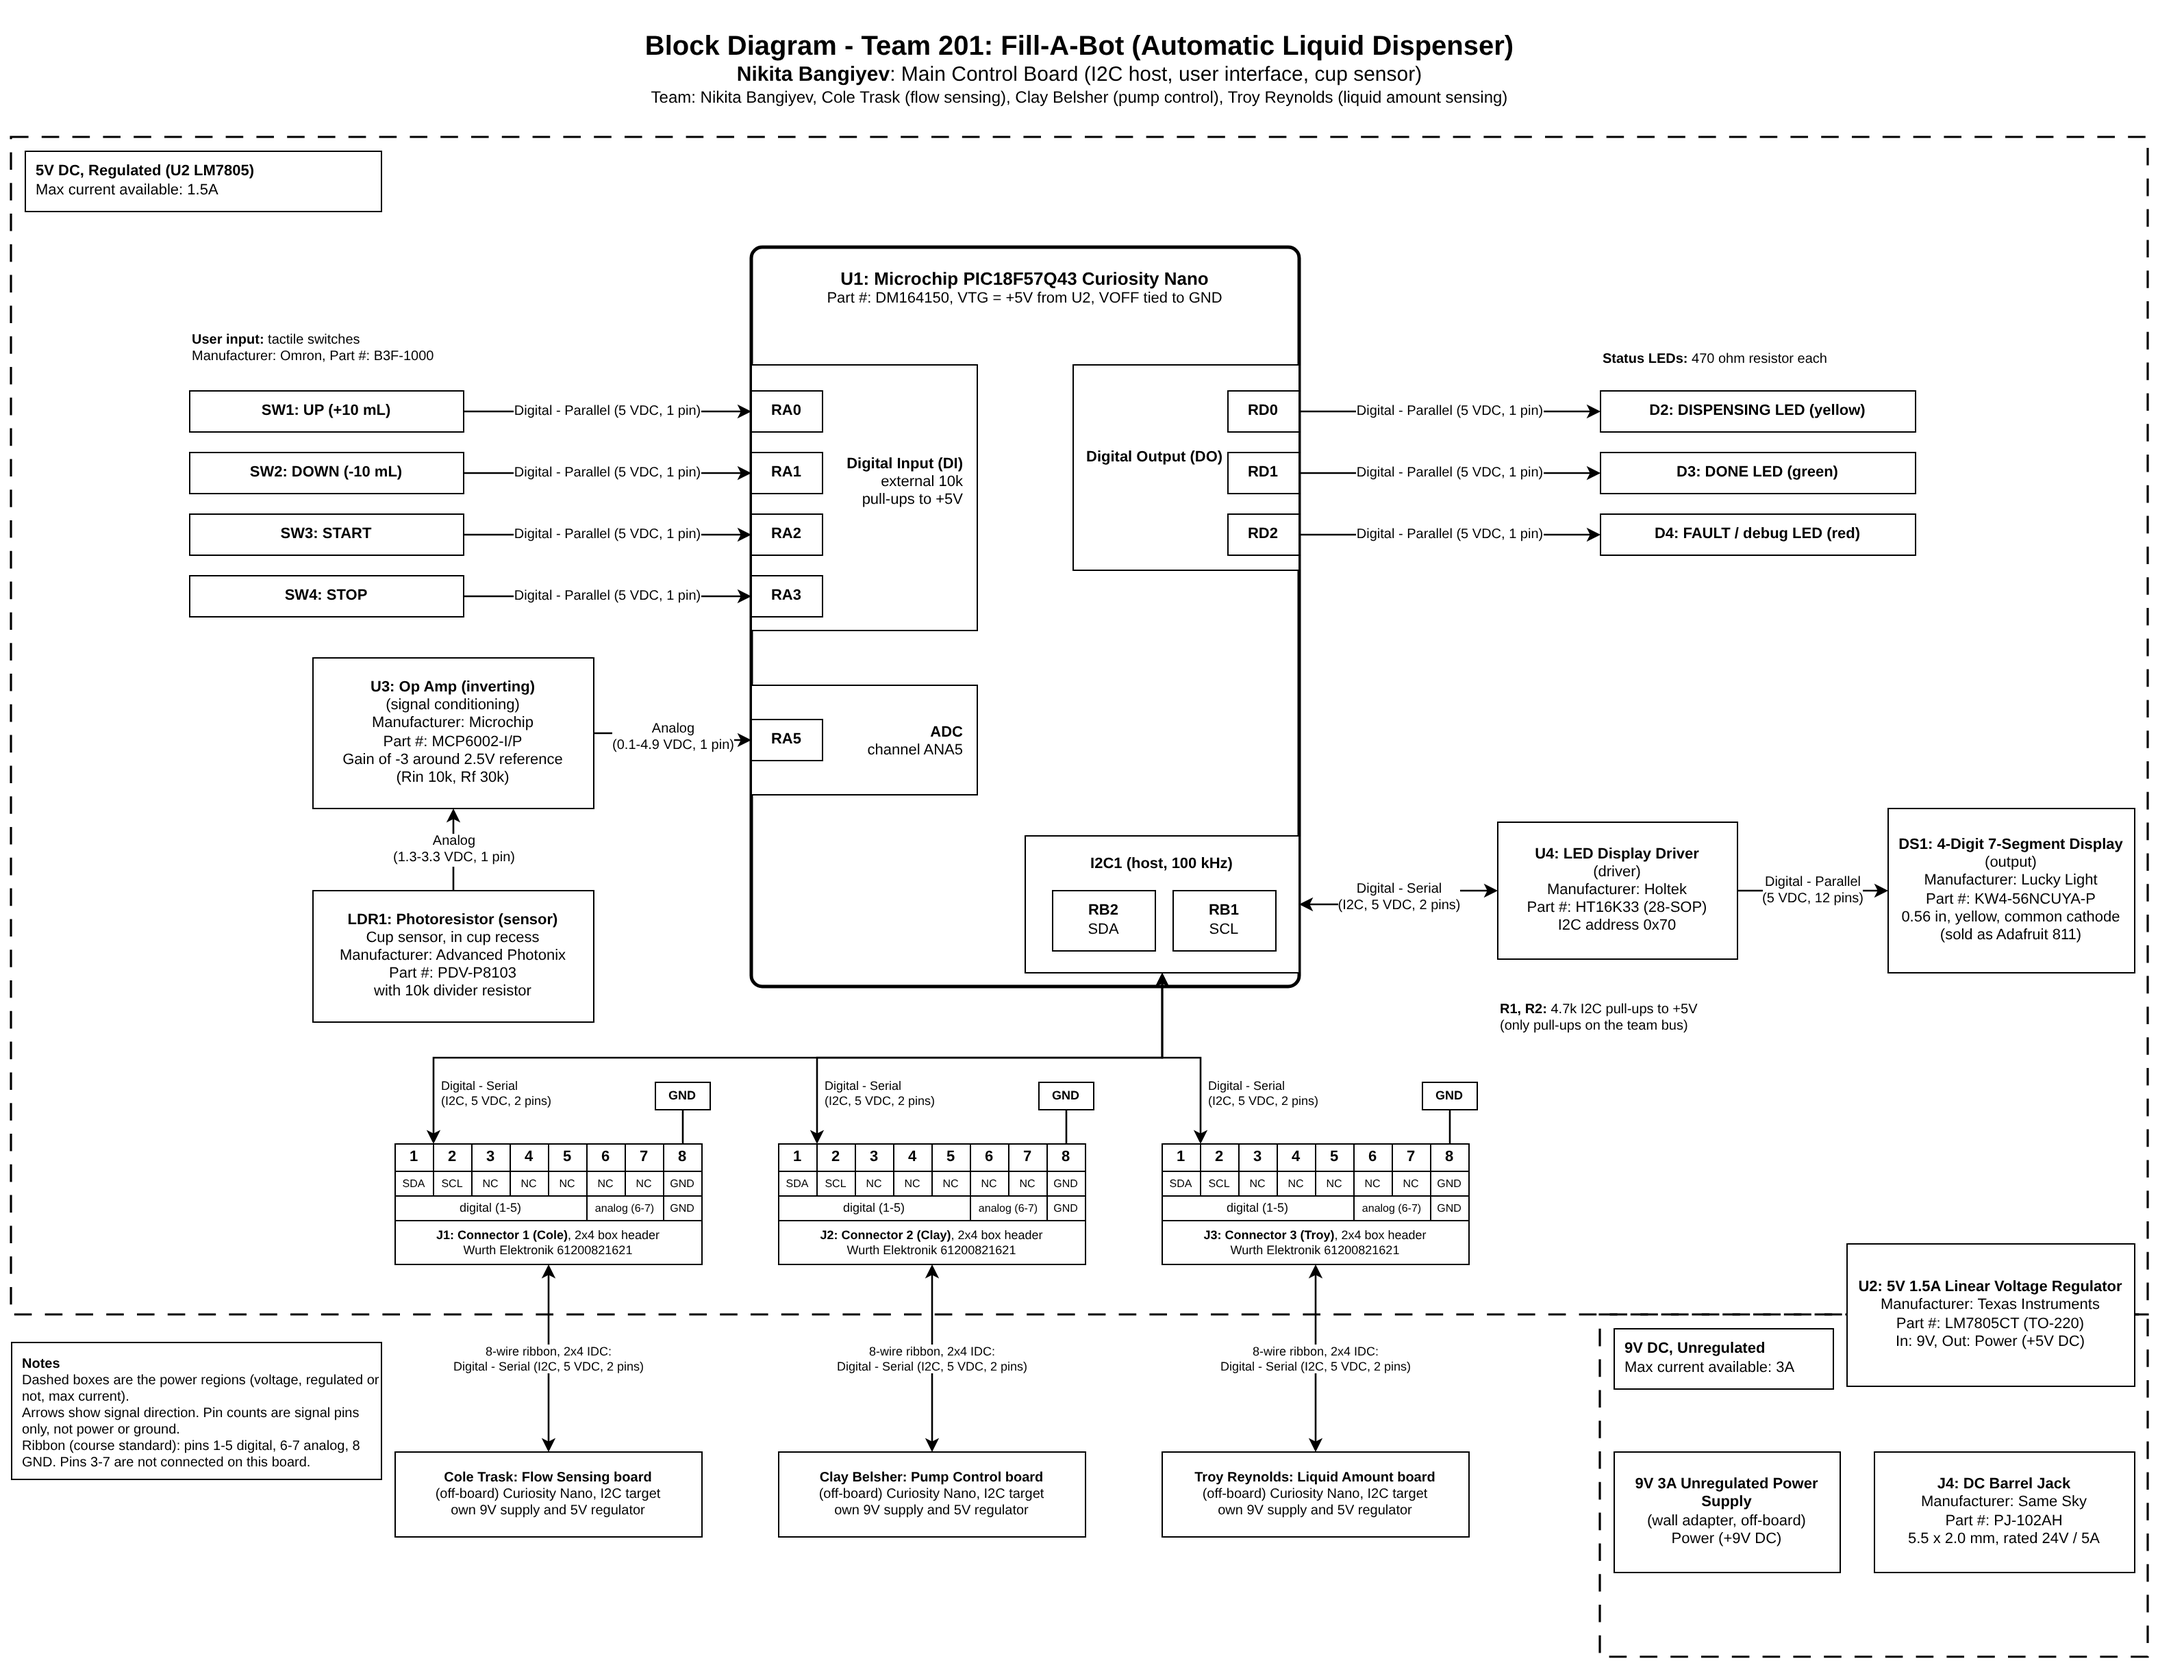
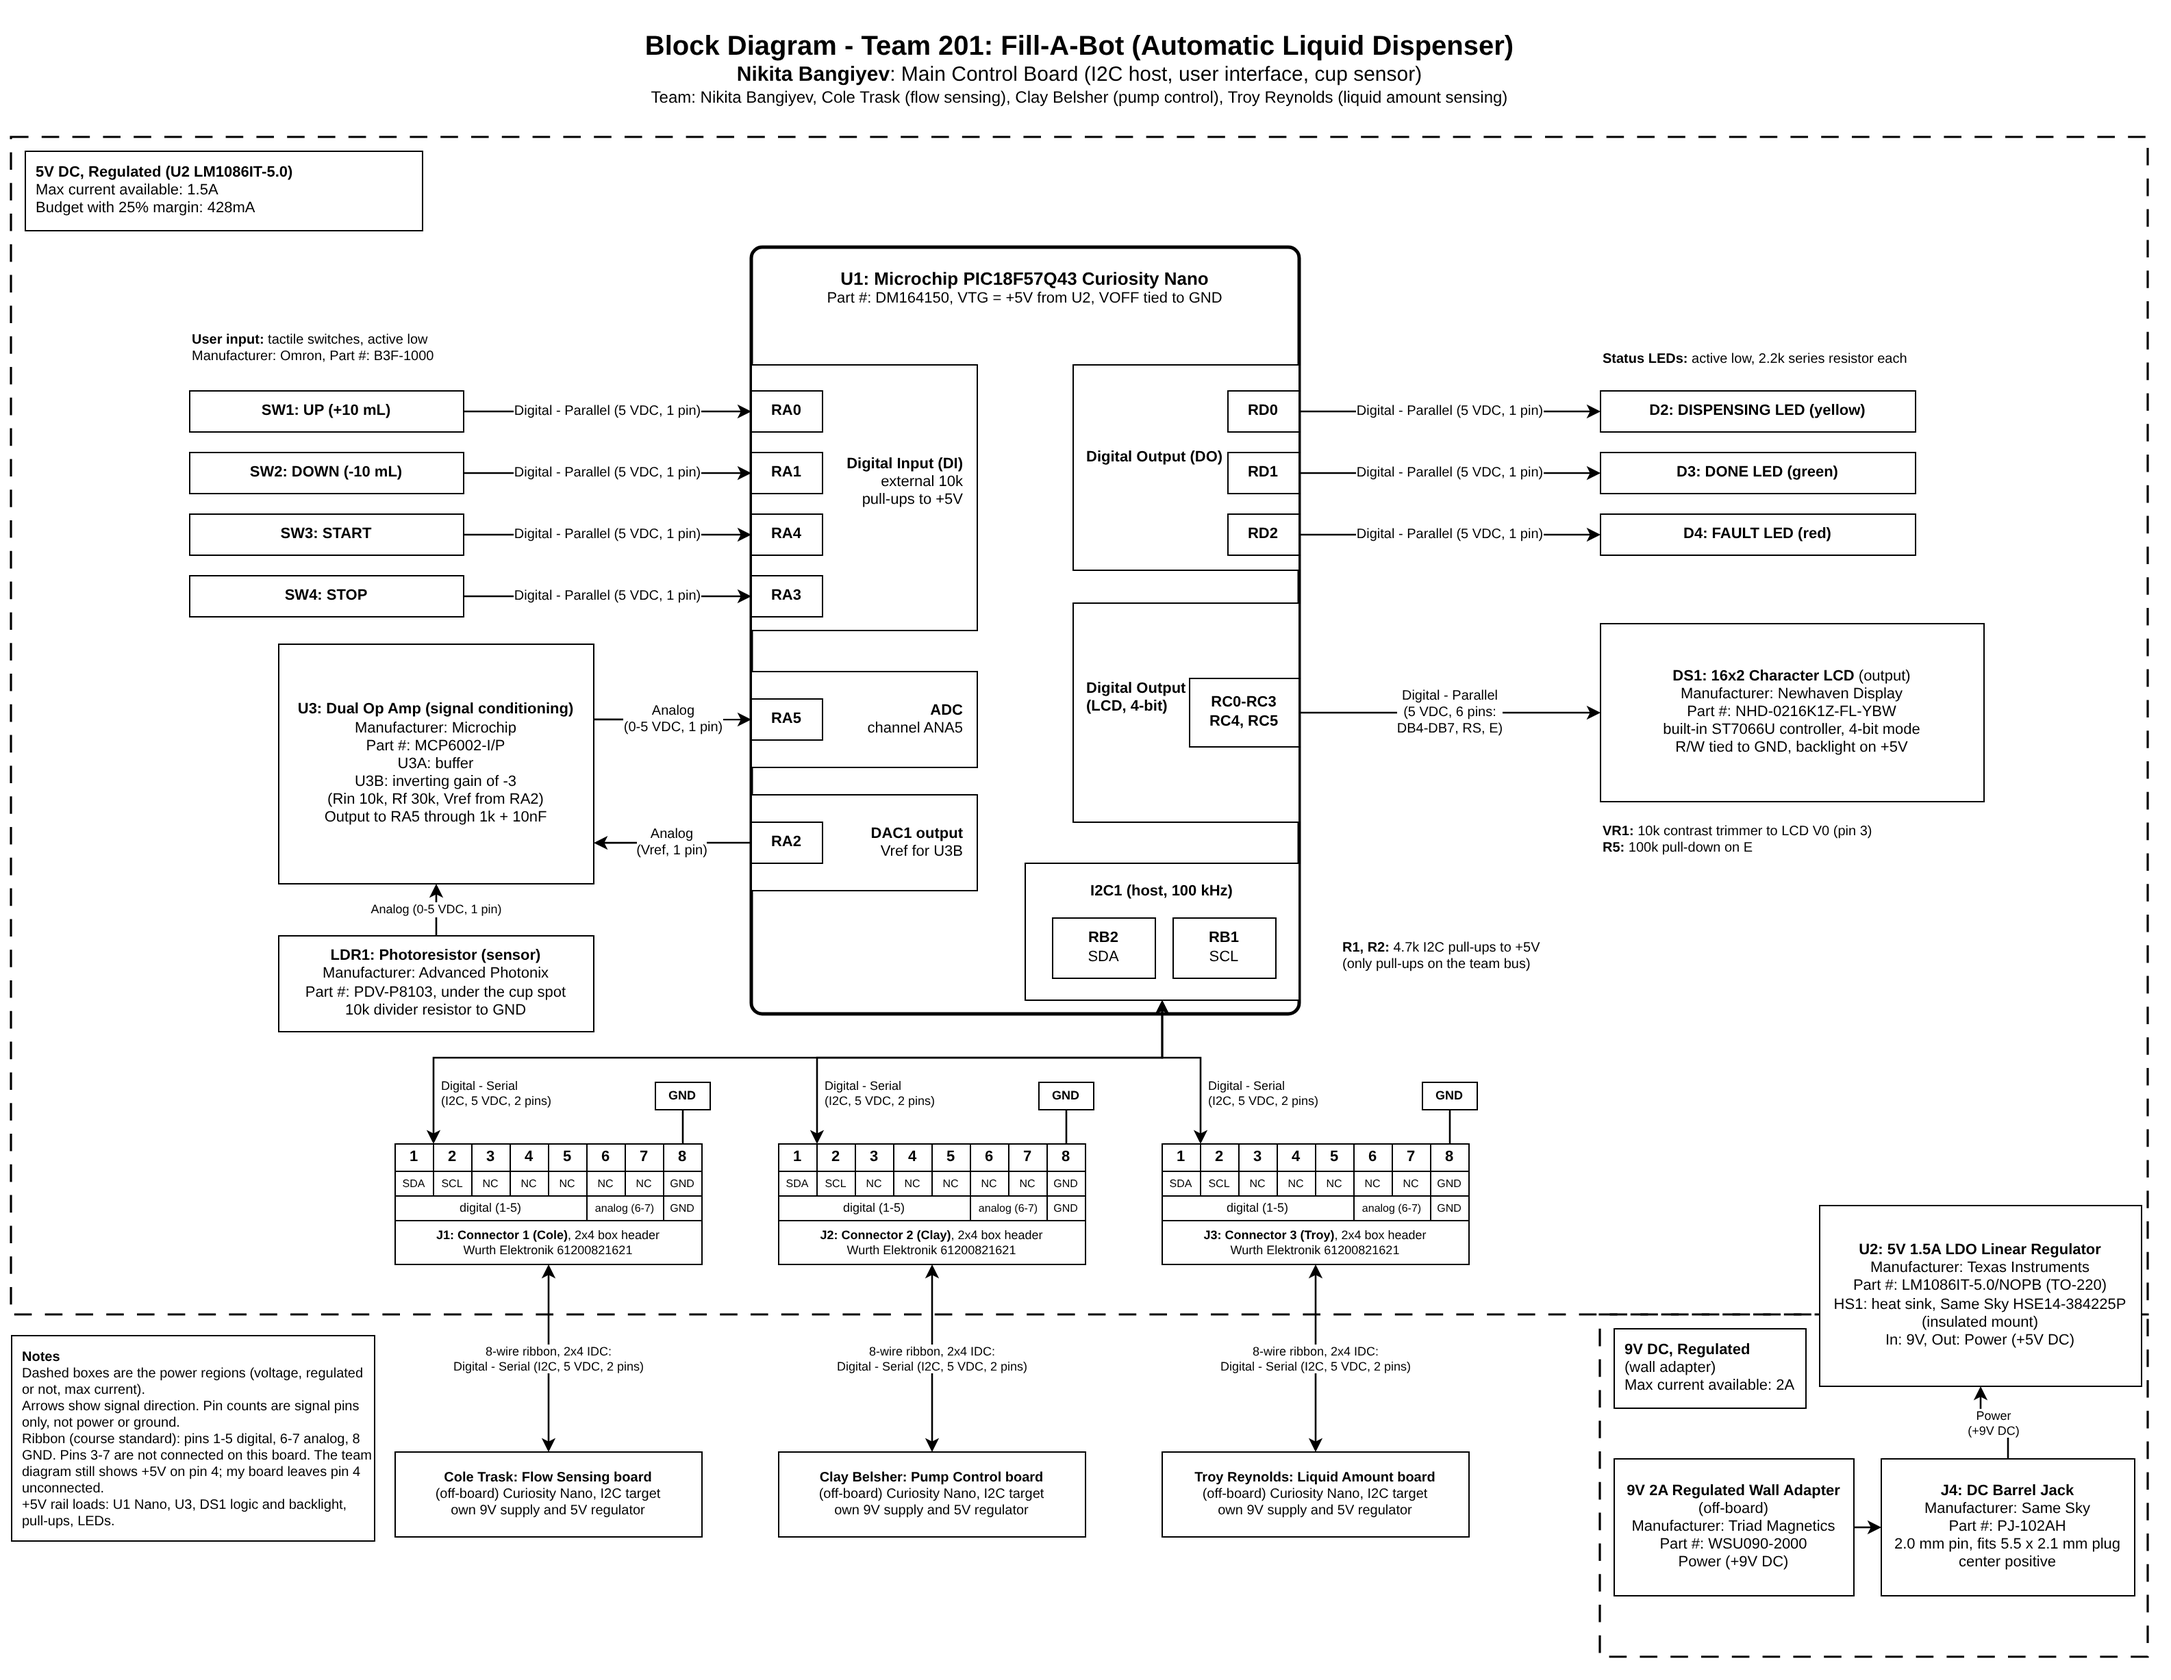
Update block diagram for final component selection
16x2 LCD on RC0-RC5, LM1086 regulator with heat sink, 9V 2A Triad adapter, MCP6002 buffer + gain stage with DAC reference on RA2, START moved to RA4, 2.2k LED resistors. Ribbon pins 3-7 stay unconnected per the class standard.

Claude-Session: https://claude.ai/code/session_01WMeTzg44UYnfGmciHkCZq2

diff --git a/docs/01-Block-Diagram/Block-Diagram.md b/docs/01-Block-Diagram/Block-Diagram.md
@@ -11,7 +11,7 @@ Nikita Bangiyev, Team 201, Fill-A-Bot (automatic liquid dispenser)
 
 ## Overview
 
-I'm doing the main control board. It's the I2C host for the team. It reads the buttons, tells Clay's board to run the pump, gets the flow and weight readings from Cole's and Troy's boards, and shows the amount on a 4-digit display. My sensor is a photoresistor under the cup spot with an op amp, so the pump only starts when a cup is there.
+I'm doing the main control board. It's the I2C host for the team. It reads the buttons, tells Clay's board to run the pump, gets the flow and weight readings from Cole's and Troy's boards, and shows the amount and status on a 16x2 LCD. My sensor is a photoresistor under the cup spot with an op amp, so the pump only starts when a cup is there.
 
 ![Main control board block diagram](nikita-block-diagram.png){ width="100%" }
 
@@ -19,19 +19,25 @@ Figure 1: Main control board block diagram (click to enlarge). Draw.io file: [ni
 
 ## Power
 
-- 9V 3A wall adapter into a barrel jack (unregulated)
-- LM7805 makes 5V (regulated, 1.5A max) for the rest of the board
+- 9V 2A regulated wall adapter (Triad WSU090-2000) into a barrel jack (Same Sky PJ-102AH)
+- LM1086IT-5.0 linear regulator makes 5V (1.5A max, 4.9 to 5.1V) for the whole board
+- The regulator has a heat sink (Same Sky HSE14-384225P) with an insulating pad, because its tab is at 5V
 - The Nano gets 5V on VTG with VOFF tied to GND
-- My board draws about 150 mA, so the LM7805 doesn't need a heat sink
+- My power budget is 428mA with the 25% margin (see [Power Budget](../05-Power-Budget/Power-Budget.md))
 
 ## Pin Assignments
 
 | Pin | Use | Connects to |
 |---|---|---|
-| RA0-RA3 | Digital input | UP, DOWN, START, STOP buttons |
-| RA5 | ADC | Cup sensor (op amp output) |
-| RD0-RD2 | Digital output | Dispensing, Done, Fault LEDs |
-| RB2 / RB1 | I2C SDA / SCL | Display driver and all 3 ribbon connectors |
+| RA0, RA1, RA4, RA3 | Digital input | UP, DOWN, START, STOP buttons (active low, 10k pull-ups) |
+| RA5 | ADC | Cup sensor (op amp output through 1k + 10nF) |
+| RA2 | DAC output | Reference voltage for the op amp gain stage |
+| RD0-RD2 | Digital output | Dispensing, Done, Fault LEDs (active low, 2.2k each) |
+| RC0-RC3 | Digital output | LCD DB4-DB7 |
+| RC4, RC5 | Digital output | LCD RS and E |
+| RB2 / RB1 | I2C SDA / SCL | All 3 ribbon connectors |
+
+START moved from RA2 to RA4 so RA2 can be the DAC output. The full pin table is on my [Component Selection](../02-Component-Selection/Component-Selection.md) page.
 
 ## Ribbon Connectors
 
@@ -51,30 +57,33 @@ The team diagram currently has +5V on pin 4. I left it unconnected because the c
 | Part | Manufacturer | Part # |
 |---|---|---|
 | Curiosity Nano (U1) | Microchip | PIC18F57Q43 (DM164150) |
-| 5V regulator (U2) | Texas Instruments | LM7805CT |
+| 5V regulator (U2) | Texas Instruments | LM1086IT-5.0/NOPB |
+| Regulator heat sink (HS1) | Same Sky | HSE14-384225P |
+| 9V wall adapter | Triad Magnetics | WSU090-2000 |
 | Barrel jack (J4) | Same Sky | PJ-102AH |
 | Photoresistor (LDR1) | Advanced Photonix | PDV-P8103 |
 | Op amp (U3) | Microchip | MCP6002-I/P |
-| Display driver (U4) | Holtek | HT16K33 |
-| 7-segment display (DS1) | Lucky Light | KW4-56NCUYA-P |
+| 16x2 LCD (DS1) | Newhaven Display | NHD-0216K1Z-FL-YBW |
 | Buttons (SW1-SW4) | Omron | B3F-1000 |
 | Ribbon headers (J1-J3) | Wurth Elektronik | 61200821621 |
 
 ## Notes
 
-- I put the HT16K33 chip on my own board instead of using an Adafruit display backpack, since daughter boards aren't allowed.
-- The op amp is needed because a photoresistor and resistor alone don't count as an analog sensor. It's the same circuit from my photoresistor lab.
-- The pin assignments and some part numbers might still change during component selection.
+- I switched from a 4-digit 7-segment display to a 16x2 LCD, because the team requirements need words like Ready, Filling, and Finished. The LCD has its own controller, so the HT16K33 driver is gone. It was discontinued anyway.
+- The op amp is needed because a photoresistor and resistor alone don't count as an analog sensor. U3A buffers the divider and U3B amplifies it with a gain of -3. The PIC's DAC sets the reference, so it can re-zero for the room light.
+- I switched from the LM7805 to the LM1086 because the LCD backlight needs 4.9 to 5.1V, and a 7805 can be 4.75 to 5.25V.
 
 ## References
 
 1. Microchip, PIC18F57Q43 Curiosity Nano Hardware User Guide. [Link](https://ww1.microchip.com/downloads/aemDocuments/documents/MCU08/ProductDocuments/UserGuides/PIC18F57Q43-Curiosity-Nano-HW-UserGuide-DS40002186B.pdf)
-2. Texas Instruments, LM7805 datasheet. [Link](https://www.ti.com/lit/ds/symlink/lm340.pdf)
-3. Holtek, HT16K33 datasheet. [Link](https://cdn-shop.adafruit.com/datasheets/ht16K33v110.pdf)
-4. Lucky Light, KW4-56NCUYA-P display datasheet. [Link](https://cdn-shop.adafruit.com/datasheets/811datasheet.pdf)
-5. Microchip, MCP6002 datasheet. [Link](https://ww1.microchip.com/downloads/en/DeviceDoc/MCP6001-1R-1U-2-4-1-MHz-Low-Power-Op-Amp-DS20001733L.pdf)
-6. Advanced Photonix, PDV-P8103 datasheet. [Link](https://media.digikey.com/pdf/data%20sheets/photonic%20detetectors%20inc%20pdfs/pdv-p8103.pdf)
-7. Same Sky, PJ-102AH datasheet. [Link](https://www.sameskydevices.com/product/resource/pj-102ah.pdf)
-8. Omron, B3F tactile switch. [Link](https://components.omron.com/us-en/products/switches/B3F)
-9. Wurth Elektronik, WR-BHD box header. [Link](https://www.we-online.com/en/components/products/WTB_WR_BHD_BOX_HEADER_2_54MM_MALE_PCB)
-10. EGR 304 Project Description. [Link](https://embedded-systems-design.bitbucket.io/304/course-info/project-description/)
+2. Microchip, PIC18F27/47/57Q43 data sheet. [Link](https://ww1.microchip.com/downloads/aemDocuments/documents/MCU08/ProductDocuments/DataSheets/PIC18F27-47-57Q43-Microcontroller-Data-Sheet-XLP-DS40002147.pdf)
+3. Texas Instruments, LM1086 datasheet. [Link](https://www.ti.com/lit/ds/symlink/lm1086.pdf)
+4. Same Sky, HSE14-384225P heat sink datasheet. [Link](https://www.sameskydevices.com/product/resource/hse14-384225p.pdf)
+5. Triad Magnetics, WSU090-2000 datasheet. [Link](https://catalog.triadmagnetics.com/Asset/WSU090-2000.pdf)
+6. Newhaven Display, NHD-0216K1Z-FL-YBW datasheet. [Link](https://newhavendisplay.com/content/specs/NHD-0216K1Z-FL-YBW.pdf)
+7. Microchip, MCP6002 datasheet. [Link](https://ww1.microchip.com/downloads/en/DeviceDoc/MCP6001-1R-1U-2-4-1-MHz-Low-Power-Op-Amp-DS20001733L.pdf)
+8. Advanced Photonix, PDV-P8103 datasheet. [Link](https://media.digikey.com/pdf/data%20sheets/photonic%20detetectors%20inc%20pdfs/pdv-p8103.pdf)
+9. Same Sky, PJ-102AH datasheet. [Link](https://www.sameskydevices.com/product/resource/pj-102ah.pdf)
+10. Omron, B3F tactile switch. [Link](https://components.omron.com/us-en/products/switches/B3F)
+11. Wurth Elektronik, WR-BHD box header. [Link](https://www.we-online.com/en/components/products/WTB_WR_BHD_BOX_HEADER_2_54MM_MALE_PCB)
+12. EGR 304 Project Description. [Link](https://embedded-systems-design.bitbucket.io/304/course-info/project-description/)
